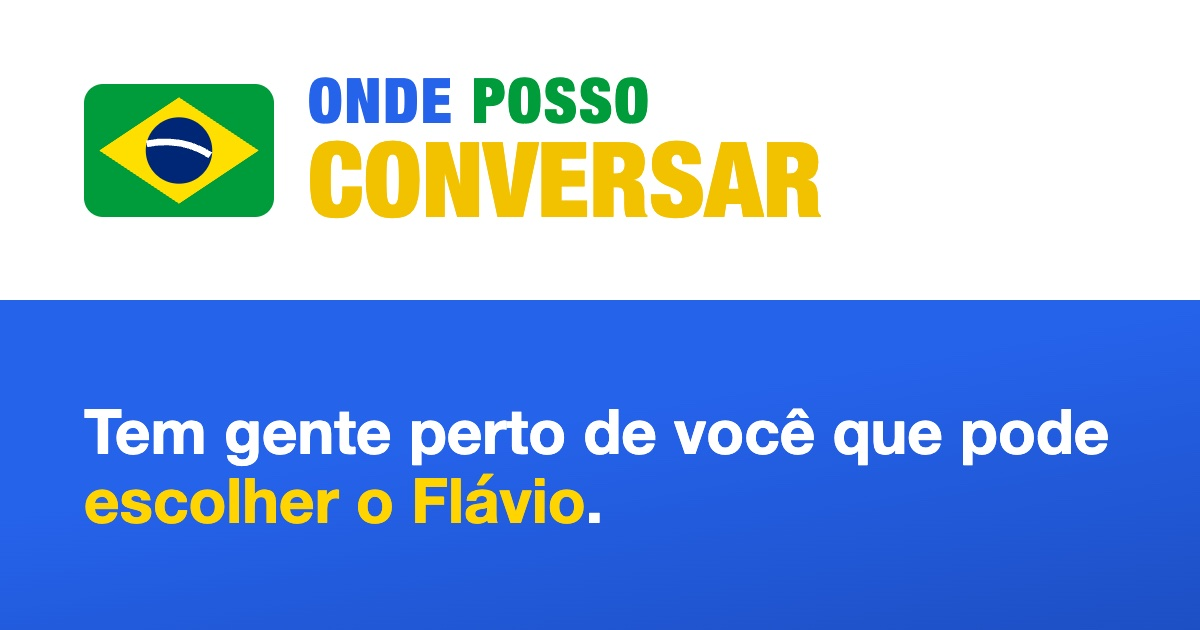
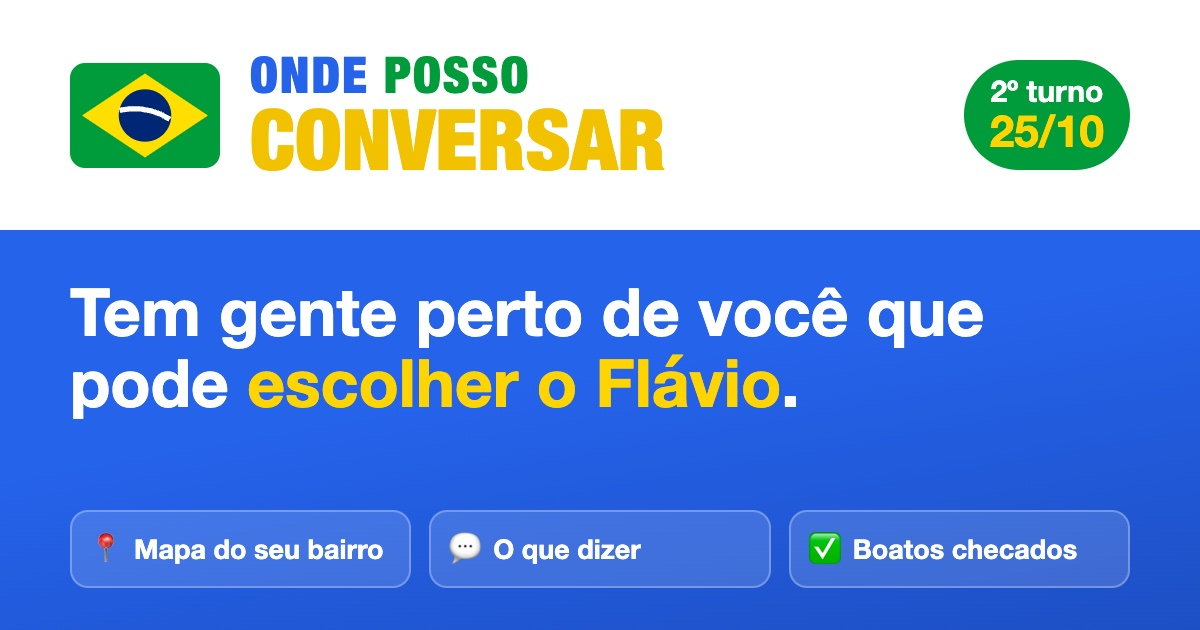
Preview de compartilhamento com data do 2º turno e o que o site oferece

diff --git a/index.html b/index.html
@@ -4,20 +4,20 @@
     <meta charset="UTF-8" />
     <meta name="viewport" content="width=device-width, initial-scale=1, viewport-fit=cover" />
     <meta name="theme-color" content="#2563eb" />
-    <meta name="description" content="Perto de você tem gente que pode escolher o Flávio no segundo turno. Veja onde conversar." />
+    <meta name="description" content="Veja no mapa onde tem gente perto de você que ainda pode votar no Flávio, o que dizer a cada um e o que é verdade sobre os boatos." />
     <link rel="icon" href="/bandeira.svg" type="image/svg+xml" />
     <meta property="og:type" content="website" />
     <meta property="og:locale" content="pt_BR" />
     <meta property="og:site_name" content="Onde posso conversar" />
-    <meta property="og:title" content="Onde posso conversar" />
-    <meta property="og:description" content="Perto de você tem gente que pode escolher o Flávio no segundo turno. Veja onde conversar." />
+    <meta property="og:title" content="Onde posso conversar · 2º turno, 25/10" />
+    <meta property="og:description" content="Veja no mapa onde tem gente perto de você que ainda pode votar no Flávio, o que dizer a cada um e o que é verdade sobre os boatos." />
     <link rel="canonical" href="https://ondepossoconversar.com.br/" />
     <meta property="og:url" content="https://ondepossoconversar.com.br/" />
-    <meta property="og:image" content="https://ondepossoconversar.com.br/compartilhar.jpg" />
+    <meta property="og:image" content="https://ondepossoconversar.com.br/compartilhar.jpg?v=2" />
     <meta property="og:image:type" content="image/jpeg" />
     <meta property="og:image:width" content="1200" />
     <meta property="og:image:height" content="630" />
-    <meta property="og:image:alt" content="Onde posso conversar: tem gente perto de você que pode escolher o Flávio." />
+    <meta property="og:image:alt" content="Onde posso conversar, 2º turno em 25/10: tem gente perto de você que pode escolher o Flávio. Mapa do seu bairro, o que dizer e boatos checados." />
     <meta name="twitter:card" content="summary_large_image" />
     <title>Onde posso conversar</title>
   </head>
